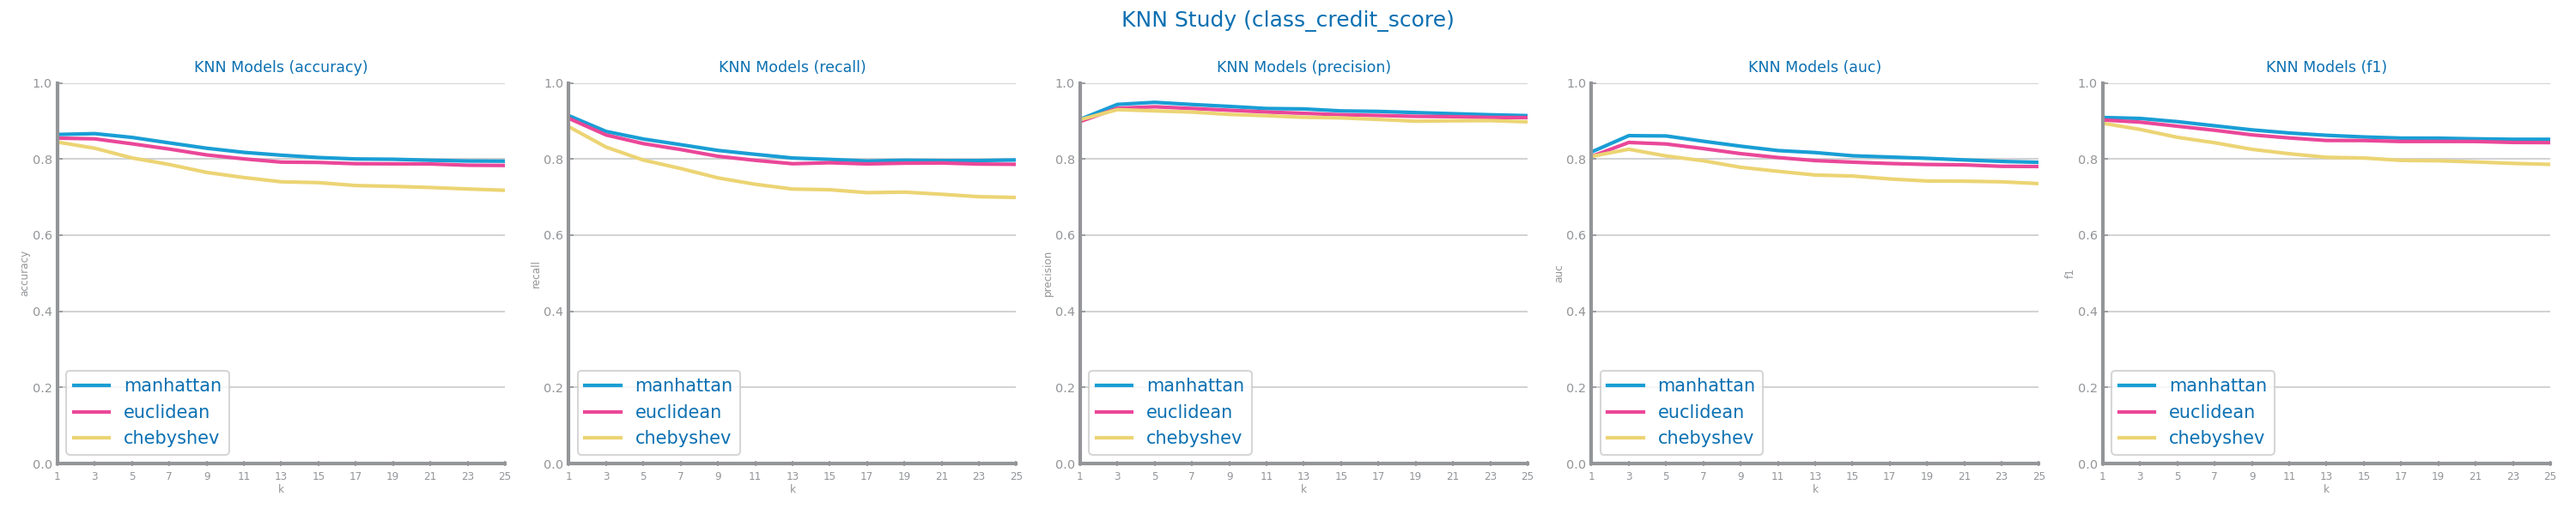
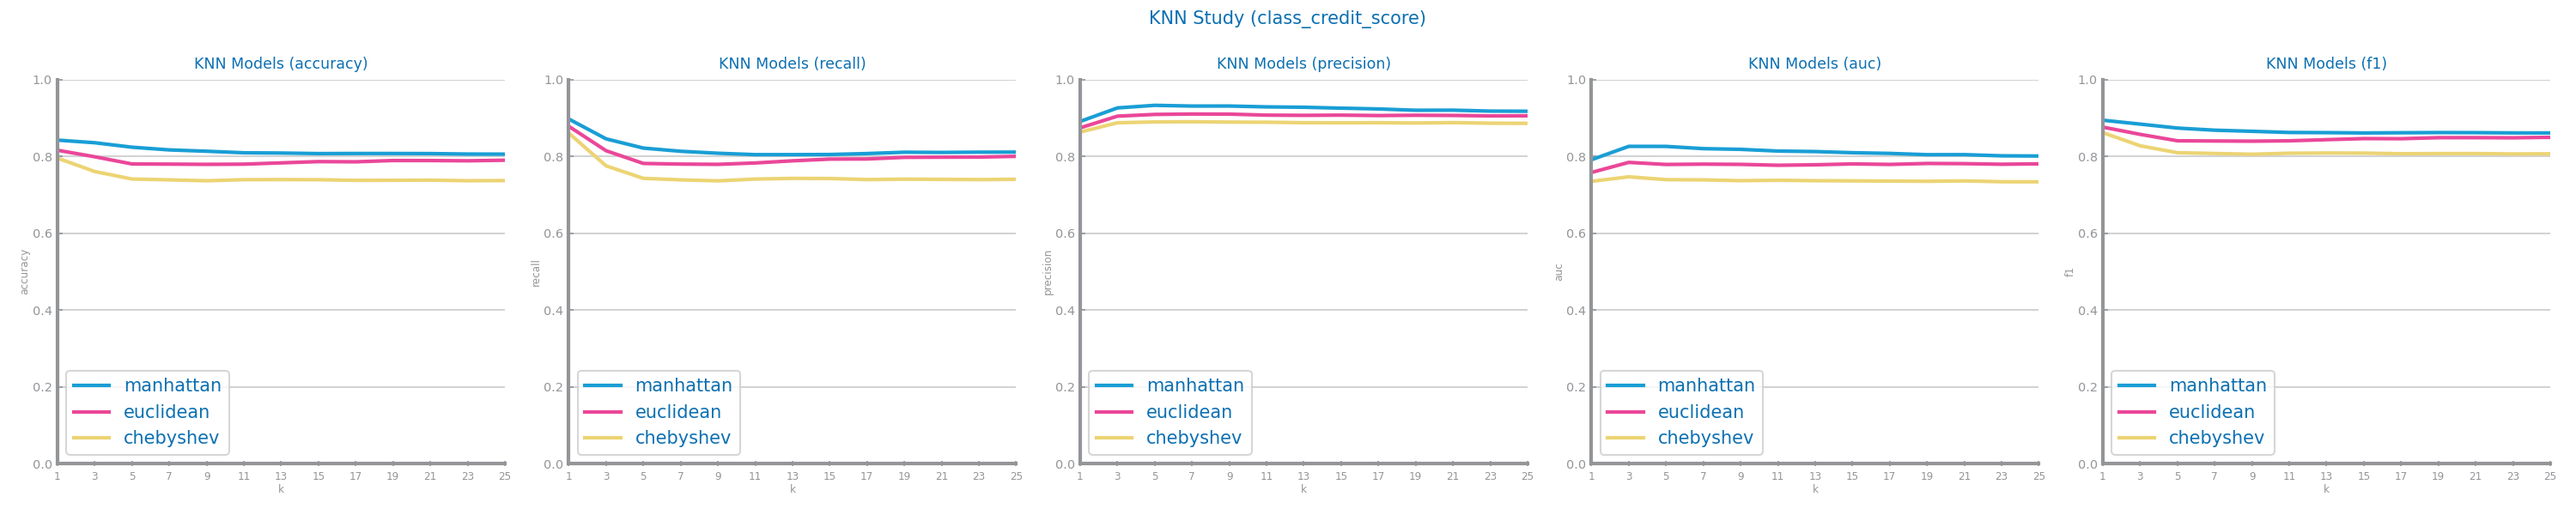
feat: KNN without sampling (just for credit_score).

diff --git a/classification/models/pos_covid/knn.py b/classification/models/pos_covid/knn.py
@@ -11,7 +11,7 @@ test_filename = "../../data/pos_covid/processed_data/class_pos_covid_test_lowvar
 pos_covid_file_tag: str = "class_pos_covid"
 target = "CovidPos"
 
-run_sampling = True
+run_sampling = True # TODO: Run without sampling - WARNING: It takes a lot of time!!!!
 sampling_amount = 0.01 if run_sampling else 1
 
 sample_tag = f"_1_{int(1 / sampling_amount)}th" if run_sampling else ""

diff --git a/classification/models/credit_score/knn.py b/classification/models/credit_score/knn.py
@@ -11,7 +11,7 @@ test_filename = "../../data/credit_score/processed_data/class_credit_score_test_
 credit_score_file_tag: str = "class_credit_score"
 target = "Credit_Score"
 
-run_sampling = True
+run_sampling = False
 sampling_amount = 0.1 if run_sampling else 1
 
 sample_tag = f"_1_{int(1 / sampling_amount)}th" if run_sampling else ""
